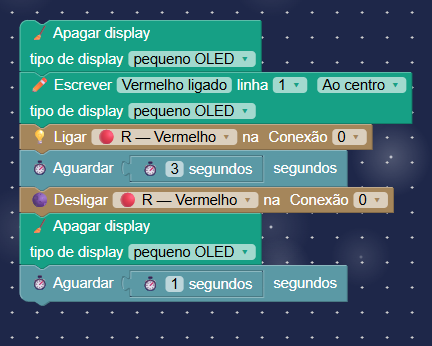
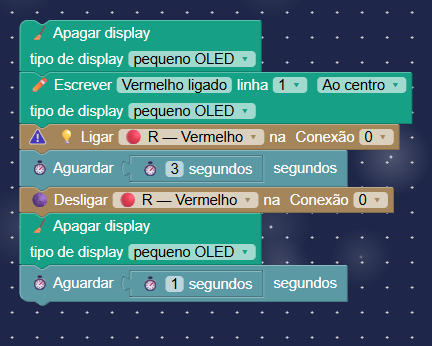
Add child-friendly display and external LED notice

Changed region(s): [[0.0602, 0.3468, 0.9329, 0.4335]]

diff --git a/src/js/blocks/contracts/registry.js b/src/js/blocks/contracts/registry.js
@@ -25,6 +25,7 @@
       externalConnectionConflict: 'A Conexão %1 já está sendo usada pelo bloco de %2. Escolha outro número neste bloco. Depois, confira se o número escolhido é o mesmo contato onde o fio foi colocado na placa.',
       externalLedInvalidConnection: 'Este LED externo usa uma Conexão que não existe na versão da BitDogLab selecionada. Escolha uma Conexão disponível na placa.',
       externalLedInvalidChannel: 'Escolha o pino R — vermelho, G — verde ou B — azul do módulo de LED colorido KY-016.',
+      externalLedOledV7Notice: '👀 Confira os fios! Na BitDogLab V7, a tela usa as Conexões 2 e 3. Se um fio colorido do KY-016 estiver em 2 ou 3, essa cor pode piscar com a tela. Use 0 e 1 para até duas cores junto com a tela. Para usar vermelho, verde e azul, escolha a tela ou o LED colorido.',
       externalLedOledV7PinConflict: 'Na placa BitDogLab V7, as Conexões 2 e 3 também são usadas pelo Display (tela da placa). Para usar este LED externo com a tela, escolha a Conexão 0 ou 1.',
       servoAngleConnectionMismatch: 'O bloco Último ângulo enviado ao servo usa a Conexão %1, mas nenhum bloco que move o servo usa essa mesma Conexão.',
       servoJoystickSameDirection: 'Escolha direções diferentes para aumentar e diminuir o ângulo do servo. A mesma direção não consegue fazer os dois movimentos.',
@@ -52,6 +53,7 @@
       externalConnectionConflict: 'Connection %1 is already used by the %2 block. Change the connection in this block and physically check which board contact the cable is connected to. The connection selected in the block cannot detect the real wiring.',
       externalLedInvalidConnection: 'This external LED uses a Connection that does not exist on the selected BitDogLab version. Choose a Connection available on the board.',
       externalLedInvalidChannel: 'Choose the R — red, G — green, or B — blue pin on the KY-016 colour LED module.',
+      externalLedOledV7Notice: '👀 Check the wires! On BitDogLab V7, the screen uses Connections 2 and 3. If a KY-016 colour wire is on 2 or 3, that colour may blink with the screen. Use 0 and 1 for up to two colours with the screen. To use red, green, and blue, choose the screen or the colour LED.',
       externalLedOledV7PinConflict: 'On board BitDogLab V7, Connections 2 and 3 are also used by the board display. To use this external LED with the screen, choose Connection 0 or 1.',
       servoAngleConnectionMismatch: 'The Last angle sent to servo block uses Connection %1, but no block that moves the servo uses that same Connection.',
       servoJoystickSameDirection: 'Choose different directions to increase and decrease the servo angle. The same direction cannot perform both movements.',

diff --git a/src/js/blocks/contracts/validator.js b/src/js/blocks/contracts/validator.js
@@ -591,6 +591,9 @@
     'led_externo_piscar_lento'
   ];
   var EXTERNAL_LED_GLOBAL_TYPES = ['led_externo_desligar_todos'];
+  var EXTERNAL_LED_ANY_TYPES = EXTERNAL_LED_TYPES.concat([
+    'led_externo_criar_animacao'
+  ], EXTERNAL_LED_GLOBAL_TYPES);
 
   function validateExternalLedRules(blocks, warnings) {
     var config = global.BitdogLabConfig || {};
@@ -668,10 +671,20 @@
 
   }
 
-  function validateExternalLedOledV7PinConflicts(blocks, warnings) {
+  function validateExternalLedOledV7PinConflicts(blocks, warnings, notices) {
     var config = global.BitdogLabConfig;
     if (!config || config.VERSION !== 'v7' || !config.PINS || !config.EXTERNAL || !config.EXTERNAL.DIG_PINS) return;
     if (!blocks.some(isOledBlock)) return;
+
+    var externalLedBlocks = [];
+    for (var externalIndex = 0; externalIndex < blocks.length; externalIndex++) {
+      if (EXTERNAL_LED_ANY_TYPES.indexOf(blocks[externalIndex].type) !== -1) {
+        externalLedBlocks.push(blocks[externalIndex]);
+      }
+    }
+    if (externalLedBlocks.length) {
+      addNotice(notices, externalLedBlocks[0], msg('externalLedOledV7Notice'));
+    }
 
     for (var globalIndex = 0; globalIndex < blocks.length; globalIndex++) {
       if (EXTERNAL_LED_GLOBAL_TYPES.indexOf(blocks[globalIndex].type) !== -1) {
@@ -817,7 +830,7 @@
     validateDht11V7PinConflicts(blocks, warnings);
     validateDht11Aht20V7I2c0Conflicts(blocks, warnings);
     validateExternalLedRules(blocks, warnings);
-    validateExternalLedOledV7PinConflicts(blocks, warnings);
+    validateExternalLedOledV7PinConflicts(blocks, warnings, notices);
     validateExternalResourceConflicts(blocks, warnings);
     validateNearMissConnections(blocks, warnings);
 
